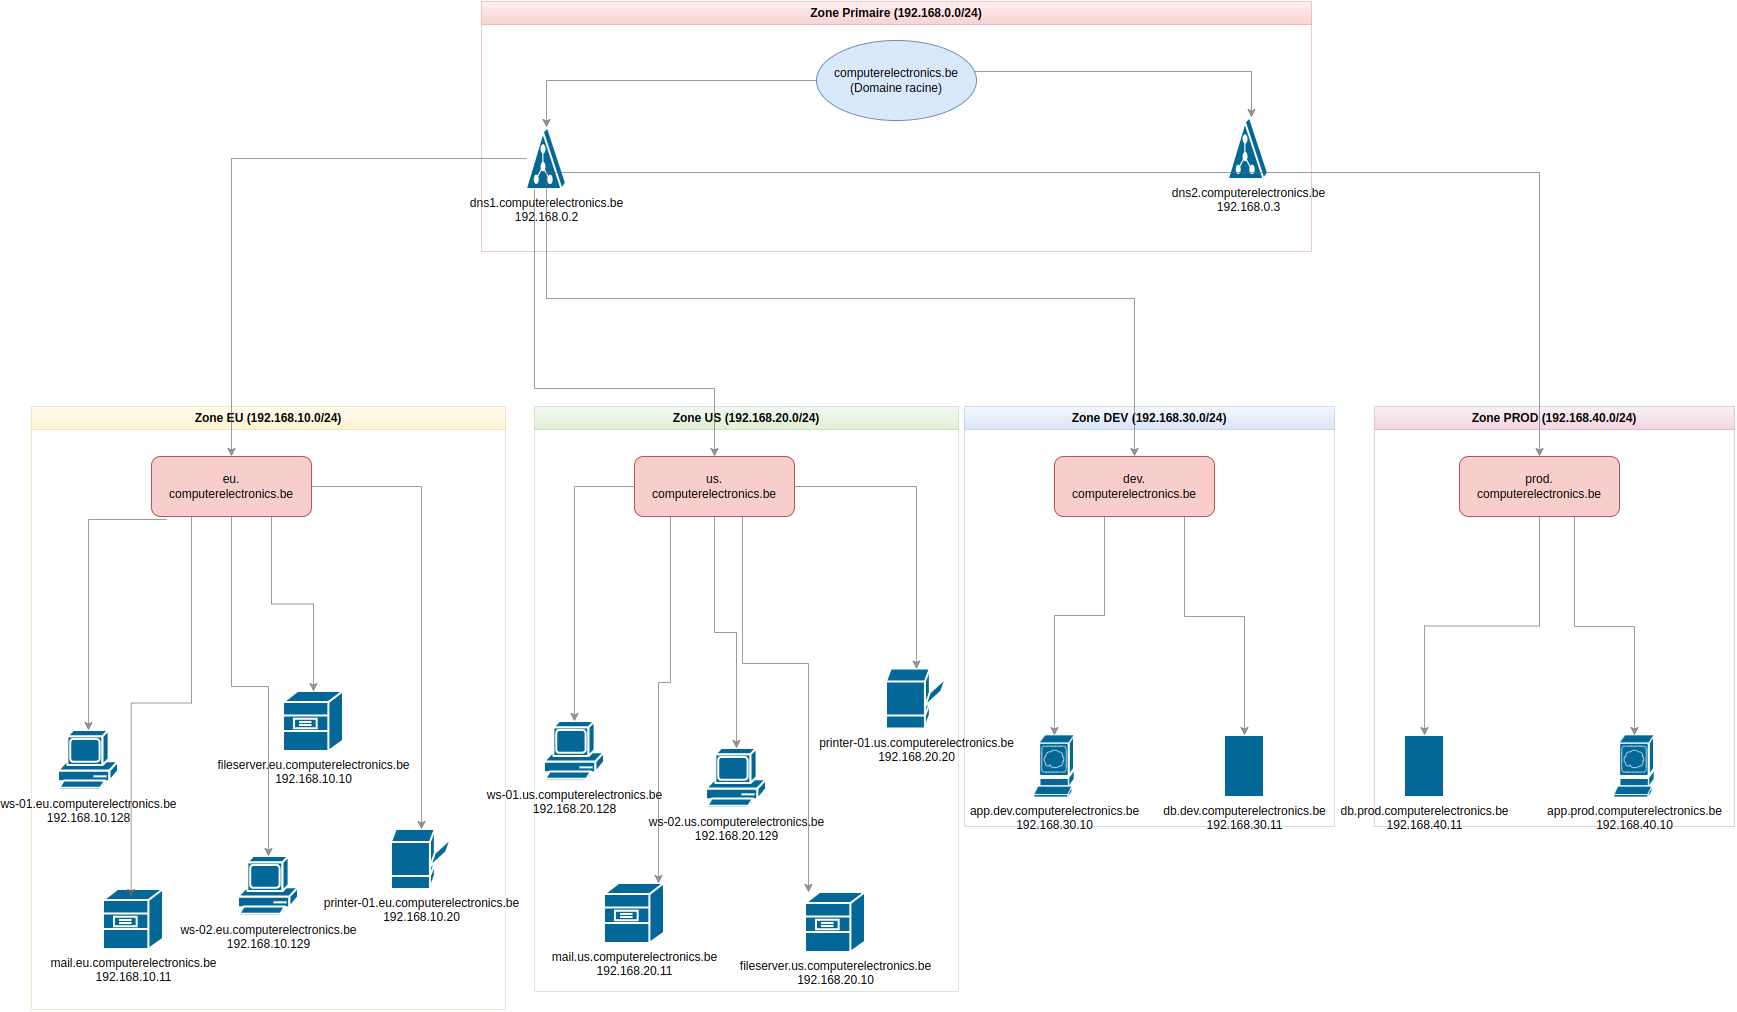
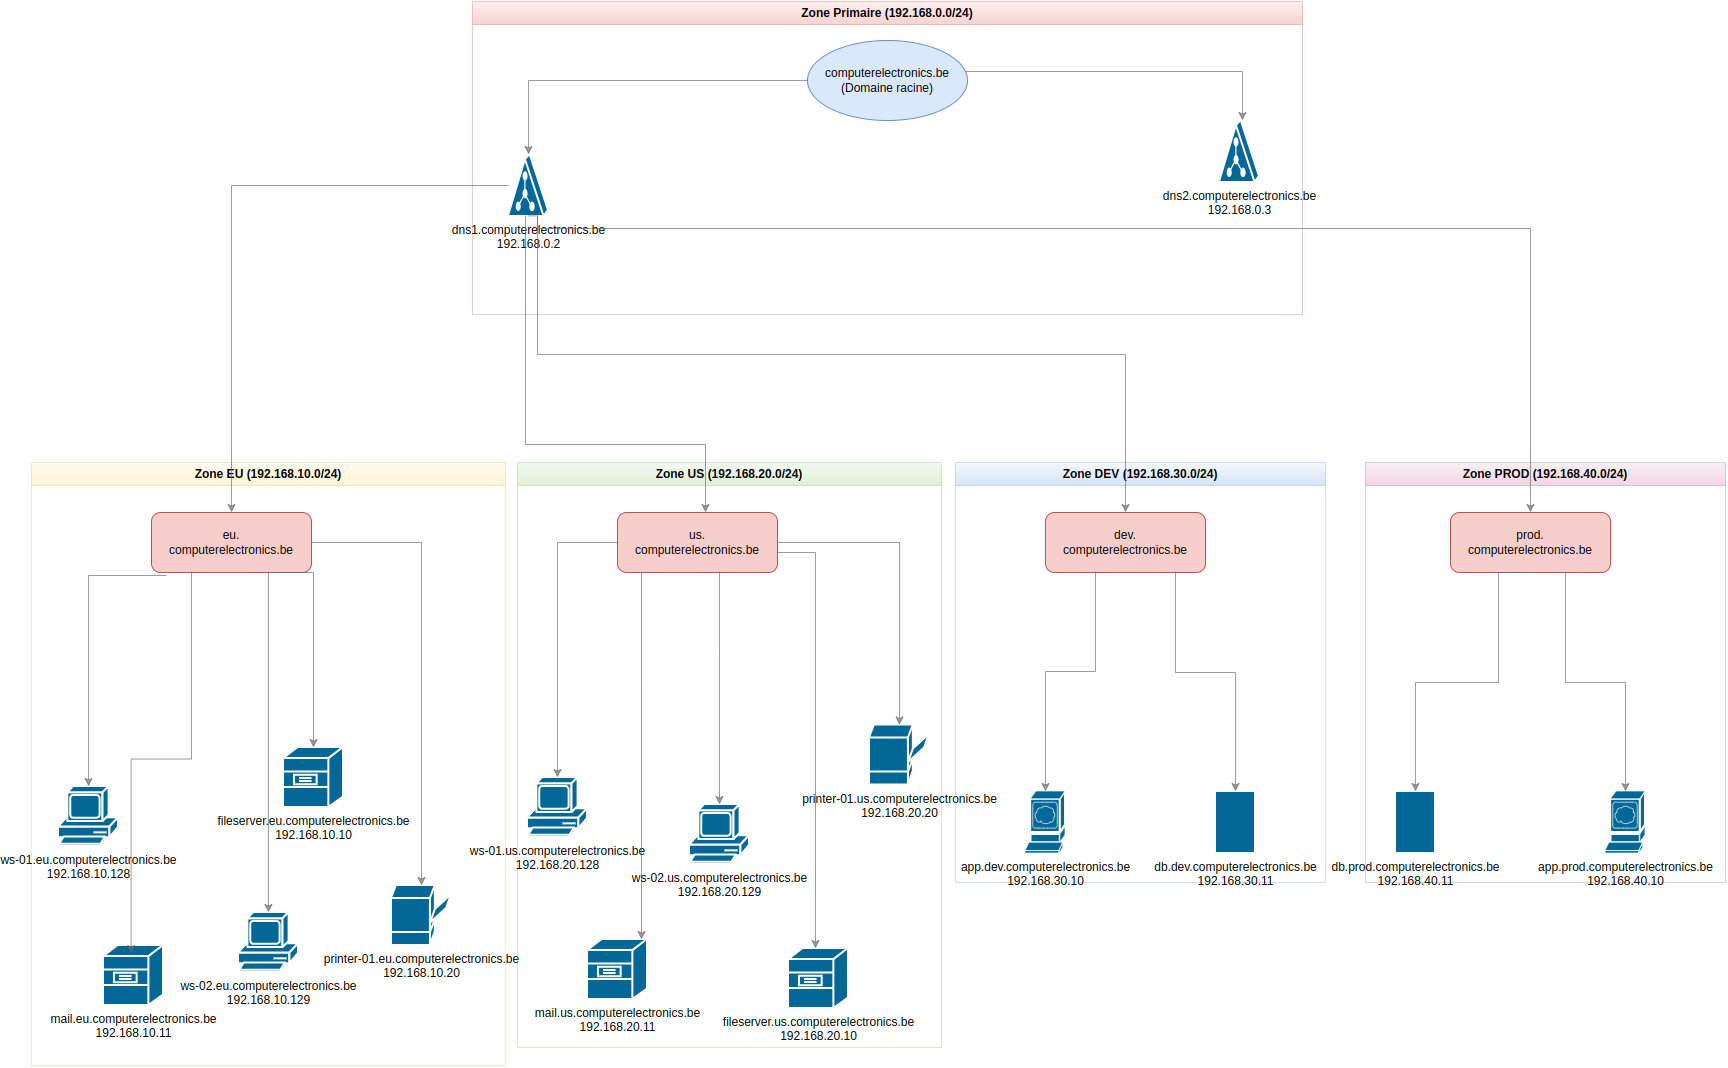
base

diff --git a/syllabus/Installation-Windows-Server-2022-VirtualBox.md b/syllabus/Installation-Windows-Server-2022-VirtualBox.md
@@ -99,6 +99,16 @@ Ce guide vous accompagnera dans le processus d'installation de Windows Server 20
 
 10. Utilisez la barre supérieure de menu pour envoyer au serveur un sequence de touches (comme sur un clavier) : **Ctrl + Alt + Suppr** (Barre supérieure de menu->Entrée->Clavier->Envoyer CTRL+ALT+DEL)  
 
+## Post-Installation de base
+
+Après l'installation de Windows Server 2022, il est nécessaire d'effectuer quelques configurations de base :
+
+
+### 1. Mise à jour du système :
+   - Installation des mises à jour Windows (lancer Windows Update)
+   - Redémarrage si nécessaire
+
+
 ## Console de Gestion du Serveur
 
 C'est une console qui permet de configurer et de gérer les rôles et les caractéristiques du serveur, ainsi que la configuration du réseau.
@@ -107,25 +117,31 @@ Cliquez sur **Démarrer** et tapez **Gestionnaire du Serveur** dans la barre de 
 
 Notre serveur n'est pas configuré pour le moment.
 
-Commençons par donner un nom au serveur. Notre serveur sera **dns1.computerelectronics.be**.
+Commençons par donner un nom au serveur. Notre serveur sera l'élément clé: **dns1.computerelectronics.be**.
 
 Regardez le schéma de l'infrastructure de réseau de Computerelectronics.be:
 
-![Infrastructure](../diagrams/images/structure_reseau_zones.png)
+![Infrastructure](../diagrams/images/structure_reseau_geographic_zones.png)
 
 
 
 1. Ouvrez à nouveau le **Gestionnaire de serveur** et cliquez sur **Serveur local**
 2. Cliquez sur le nom actuel du serveur
 3. Dans la fenêtre Propriétés système, cliquez sur **Modifier**
-4. Dans le champ "Nom de l'ordinateur", tapez : **dns1**
-5. Dans le champ "Suffixe DNS principal de l'ordinateur", tapez : **computerelectronics.be**
+4. Dans le champ **Nom de l'ordinateur**, tapez : **dns1**
+5. Dans le champ **Suffixe DNS principal de l'ordinateur**, tapez : **computerelectronics.be**
 6. Cliquez sur **OK**
 7. Redémarrez le serveur pour appliquer les changements
 
 Le serveur aura maintenant le nom complet (FQDN) : dns1.computerelectronics.be
 
+(Vous auriez pu acceder au nom du serveur depuis le **sysdm.cpl**).
+
 **FQDN** = Fully Qualified Domain Name (Nom de domaine complet)
+
+
+
+
 
 <br>
 

diff --git a/syllabus/3.Active Directory Domain Services (AD DS).md b/syllabus/3.Active Directory Domain Services (AD DS).md
@@ -35,7 +35,7 @@ etc...
 Ceci est l'infrastructure de réseau de Computerelectronics.be:
 
 
-![Infrastructure](../diagrams/images/structure_reseau_zones.png)
+![Infrastructure](../diagrams/images/structure_reseau_geographic_zones.png)
 
 Pour le moment on a... un serveur virtualisé (dns1.computerelectronics.be) et un client virtualisé (ws-compta-01.eu.computerelectronics.be). Ce n'est pas beaucoup mais ceci nous permettra déjà de mettre en place Active Directory et de voir comment fonctionne l'authentification et l'autorisation des ressources dans le réseau... entre autre multiples actions!
 
@@ -83,7 +83,7 @@ Cette configuration simplifiée nous permettra d'apprendre les concepts fondamen
 
 Considérez notre structure de réseau :
 
-![Forêt](../diagrams/images/structure_reseau_zones.png)
+![Forêt](../diagrams/images/structure_reseau_geographic_zones.png)
 
 Voyons un flux client-serveur avec Active Directory.
 
@@ -378,7 +378,7 @@ Dans notre infrastructure, les contrôleurs de domaine gèrent l'authentificatio
 
 Les zones DNS créées sont visibles dans le diagramme de l'infrastructure :
 
-![Diagramme des zones DNS](../diagrams/images/structure_reseau_zones.png)
+![Diagramme des zones DNS](../diagrams/images/structure_reseau_geographic_zones.png)
 
 
 
